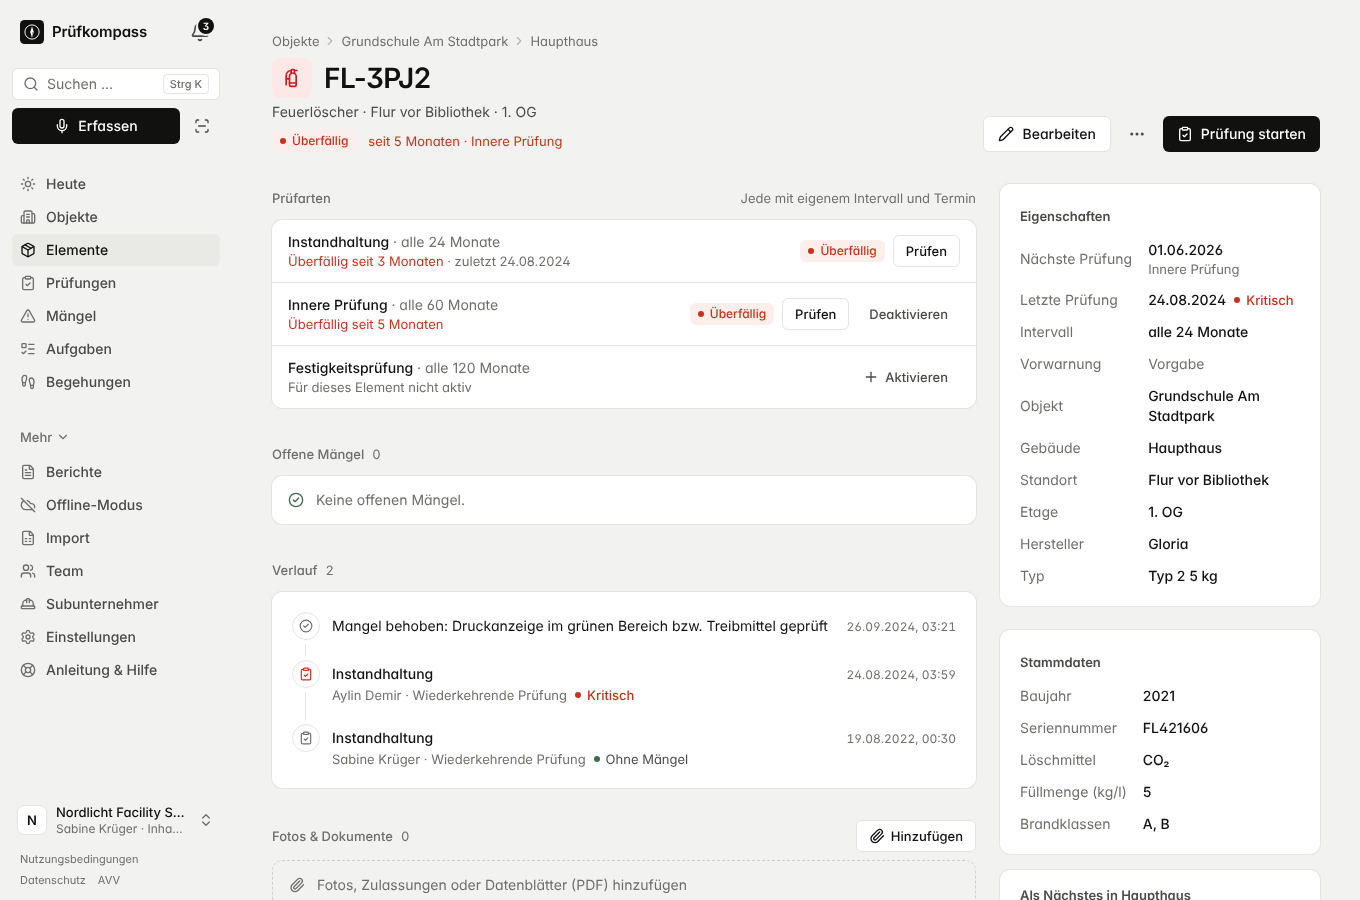
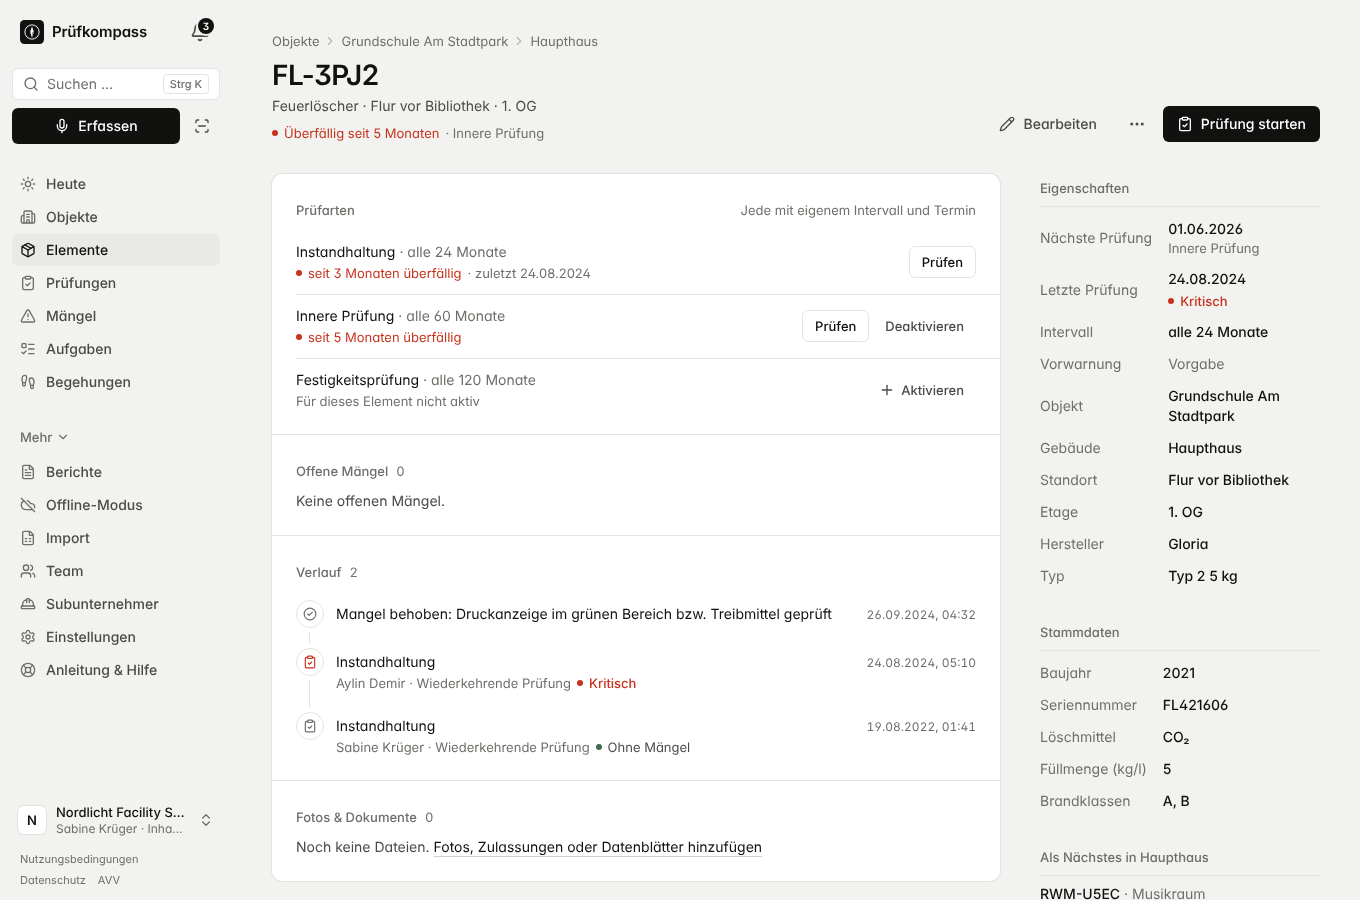
Design-Doku: v2-Bilder entfernt, v3-Bilder neu aufgenommen
Alte d-/m-Bilder (v2 mit Orange) unter docs/design/ gelöscht; docs/design.md
verweist nur noch auf docs/design/v3/. Aufgaben, Heute und Element nach den
Änderungen neu aufgenommen (1360/390 px, Faktor 1).

Claude-Session: https://claude.ai/code/session_01HVccfwMBMaTaBJJ1JnwGRD

diff --git a/docs/design.md b/docs/design.md
@@ -3,7 +3,7 @@
 Verbindlicher Vertrag für alle Seiten. Herleitung und Befund: `docs/plan/v3.md` (Abschnitte 1–2).
 Tokens: `src/index.css` · Bausteine: `src/components/ui.tsx` · Rahmen: `src/components/Shell.tsx`.
 Vorzeigeseiten: **Heute** (`src/pages/Dashboard.tsx`) und **Anmeldung** (`src/pages/Auth.tsx`).
-Bilder (1360 und 390 px): `docs/design/v3/`. Ältere Bilder in `docs/design/**` zeigen v2.
+Bilder (1360 und 390 px): `docs/design/v3/` (Bereiche in Unterordnern).
 
 > Kurz: ein Raum aus Sichtbeton mit einer Lichtfuge. Grauer Grund, **eine** weiße Fläche pro Seite,
 > Tinte als Akzent, **eine** Signalfarbe (Zinnober) nur für überfällig/kritisch. Status ist ein
